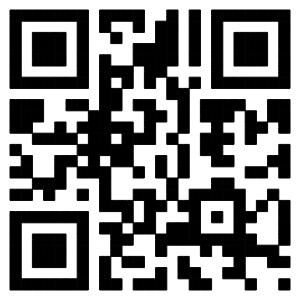
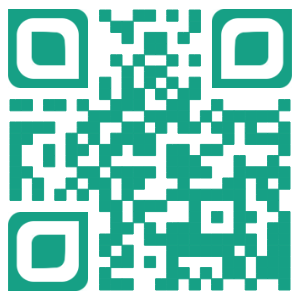
Update sae

diff --git a/app/assets/stylesheets/style.css b/app/assets/stylesheets/style.css
@@ -29,6 +29,17 @@
 .purple {
   color: #7461aa;
 }
+.main-color{
+  color: #16a085;
+}
+.main-bg-color{
+  background-color: #16a085;
+}
+.qrcode-img{
+  -webkit-border-radius: 4px !important;
+  -moz-border-radius: 4px !important;
+  border-radius: 4px !important;
+}
 /***************************************************
   APPEARANCE VARIABLES border radius, box shadow, gradient
 ****************************************************//***************************************************
@@ -2323,9 +2334,9 @@ label.checkbox.inline {
   margin: 30px auto 0;
   width: 125px;
   height: 125px;
-  -webkit-border-radius: 100%;
-  -moz-border-radius: 100%;
-  border-radius: 100%;
+  -webkit-border-radius: 30%;
+  -moz-border-radius: 30%;
+  border-radius: 30%;
 }
 /***************************************************
   DOCUMENTATION

diff --git a/config/initializers/simple_form_bootstrap.rb b/config/initializers/simple_form_bootstrap.rb
@@ -1,45 +1,45 @@
-# Use this setup block to configure all options available in SimpleForm.
-SimpleForm.setup do |config|
-  config.wrappers :bootstrap, tag: 'div', class: 'control-group', error_class: 'error' do |b|
-    b.use :html5
-    b.use :placeholder
-    b.use :label
-    b.wrapper tag: 'div', class: 'controls' do |ba|
-      ba.use :input
-      ba.use :error, wrap_with: { tag: 'span', class: 'help-inline' }
-      ba.use :hint,  wrap_with: { tag: 'p', class: 'help-block' }
-    end
-  end
+# # Use this setup block to configure all options available in SimpleForm.
+# SimpleForm.setup do |config|
+#   config.wrappers :bootstrap, tag: 'div', class: 'control-group', error_class: 'has-error' do |b|
+#     b.use :html5
+#     b.use :placeholder
+#     b.use :label
+#     b.wrapper tag: 'div', class: 'controls' do |ba|
+#       ba.use :input
+#       ba.use :error, wrap_with: { tag: 'span', class: 'help-inline' }
+#       ba.use :hint,  wrap_with: { tag: 'p', class: 'help-block' }
+#     end
+#   end
 
-  config.wrappers :prepend, tag: 'div', class: "control-group", error_class: 'error' do |b|
-    b.use :html5
-    b.use :placeholder
-    b.use :label
-    b.wrapper tag: 'div', class: 'controls' do |input|
-      input.wrapper tag: 'div', class: 'input-prepend' do |prepend|
-        prepend.use :input
-      end
-      input.use :hint,  wrap_with: { tag: 'span', class: 'help-block' }
-      input.use :error, wrap_with: { tag: 'span', class: 'help-inline' }
-    end
-  end
+#   config.wrappers :prepend, tag: 'div', class: "control-group", error_class: 'has-error' do |b|
+#     b.use :html5
+#     b.use :placeholder
+#     b.use :label
+#     b.wrapper tag: 'div', class: 'controls' do |input|
+#       input.wrapper tag: 'div', class: 'input-prepend' do |prepend|
+#         prepend.use :input
+#       end
+#       input.use :hint,  wrap_with: { tag: 'span', class: 'help-block' }
+#       input.use :error, wrap_with: { tag: 'span', class: 'help-inline' }
+#     end
+#   end
 
-  config.wrappers :append, tag: 'div', class: "control-group", error_class: 'error' do |b|
-    b.use :html5
-    b.use :placeholder
-    b.use :label
-    b.wrapper tag: 'div', class: 'controls' do |input|
-      input.wrapper tag: 'div', class: 'input-append' do |append|
-        append.use :input
-      end
-      input.use :hint,  wrap_with: { tag: 'span', class: 'help-block' }
-      input.use :error, wrap_with: { tag: 'span', class: 'help-inline' }
-    end
-  end
+#   config.wrappers :append, tag: 'div', class: "control-group", error_class: 'has-error' do |b|
+#     b.use :html5
+#     b.use :placeholder
+#     b.use :label
+#     b.wrapper tag: 'div', class: 'controls' do |input|
+#       input.wrapper tag: 'div', class: 'input-append' do |append|
+#         append.use :input
+#       end
+#       input.use :hint,  wrap_with: { tag: 'span', class: 'help-block' }
+#       input.use :error, wrap_with: { tag: 'span', class: 'help-inline' }
+#     end
+#   end
 
-  # Wrappers for forms and inputs using the Twitter Bootstrap toolkit.
-  # Check the Bootstrap docs (http://twitter.github.com/bootstrap)
-  # to learn about the different styles for forms and inputs,
-  # buttons and other elements.
-  config.default_wrapper = :bootstrap
-end
+#   # Wrappers for forms and inputs using the Twitter Bootstrap toolkit.
+#   # Check the Bootstrap docs (http://twitter.github.com/bootstrap)
+#   # to learn about the different styles for forms and inputs,
+#   # buttons and other elements.
+#   config.default_wrapper = :bootstrap
+# end

diff --git a/config/initializers/simple_form_bootstrap3.rb b/config/initializers/simple_form_bootstrap3.rb
@@ -1,0 +1,91 @@
+inputs = %w[
+  CollectionSelectInput
+  DateTimeInput
+  FileInput
+  GroupedCollectionSelectInput
+  NumericInput
+  PasswordInput
+  RangeInput
+  StringInput
+  TextInput
+]
+ 
+inputs.each do |input_type|
+  superclass = "SimpleForm::Inputs::#{input_type}".constantize
+ 
+  new_class = Class.new(superclass) do
+    def input_html_classes
+      super.push('form-control')
+    end
+  end
+ 
+  Object.const_set(input_type, new_class)
+end
+ 
+# Use this setup block to configure all options available in SimpleForm.
+SimpleForm.setup do |config|
+  config.boolean_style = :nested
+ 
+  config.wrappers :bootstrap3, tag: 'div', class: 'form-group', error_class: 'has-error',
+      defaults: { input_html: { class: 'default_class' } } do |b|
+    
+    b.use :html5
+    b.use :min_max
+    b.use :maxlength
+    b.use :placeholder
+    
+    b.optional :pattern
+    b.optional :readonly
+    
+    b.use :label_input
+    b.use :hint,  wrap_with: { tag: 'span', class: 'help-block' }
+    b.use :error, wrap_with: { tag: 'span', class: 'help-block has-error' }
+  end
+ 
+  config.wrappers :prepend, tag: 'div', class: 'form-group', error_class: 'has-error' do |b|
+    b.use :html5
+    b.use :placeholder
+    b.wrapper tag: 'div', class: 'controls' do |input|
+      input.wrapper tag: 'div', class: 'input-group' do |prepend|
+    prepend.use :label , class: 'input-group-addon' ###Please note setting class here fro the label does not currently work (let me know if you know a workaround as this is the final hurdle)
+        prepend.use :input
+      end
+      input.use :hint,  wrap_with: { tag: 'span', class: 'help-block' }
+      input.use :error, wrap_with: { tag: 'span', class: 'help-block has-error' }
+    end
+  end
+ 
+  config.wrappers :append, tag: 'div', class: 'form-group', error_class: 'has-error' do |b|
+    b.use :html5
+    b.use :placeholder
+    b.wrapper tag: 'div', class: 'controls' do |input|
+      input.wrapper tag: 'div', class: 'input-group' do |prepend|
+        prepend.use :input
+    prepend.use :label , class: 'input-group-addon' ###Please note setting class here fro the label does not currently work (let me know if you know a workaround as this is the final hurdle)
+      end
+      input.use :hint,  wrap_with: { tag: 'span', class: 'help-block' }
+      input.use :error, wrap_with: { tag: 'span', class: 'help-block has-error' }
+    end
+  end
+ 
+  config.wrappers :checkbox, tag: :div, class: "checkbox", error_class: "has-error" do |b|
+ 
+    # Form extensions
+    b.use :html5
+ 
+    # Form components
+    b.wrapper tag: :label do |ba|
+      ba.use :input
+      ba.use :label_text
+    end
+ 
+    b.use :hint,  wrap_with: { tag: :p, class: "help-block" }
+    b.use :error, wrap_with: { tag: :span, class: "help-block text-danger" }
+  end
+ 
+  # Wrappers for forms and inputs using the Twitter Bootstrap toolkit.
+  # Check the Bootstrap docs (http://getbootstrap.com/)
+  # to learn about the different styles for forms and inputs,
+  # buttons and other elements.
+  config.default_wrapper = :bootstrap3
+end

diff --git a/app/controllers/home_controller.rb b/app/controllers/home_controller.rb
@@ -5,6 +5,29 @@ class HomeController < ApplicationController
   def index
     @book = Book.new #联系我们
   end
+
+  def show
+    if params[:id] =~ /^\d+$/i
+      @page = Page.find_by(id: params[:id])
+    end
+    @page ||= Page.find_by(short_title: params[:id])
+    not_found if params[:id] && @page.nil?
+
+    Keystore.increment_value_for("page:#{@page.id}:view_count")
+    
+    @book = Book.new
+    respond_to do |format|
+      unless @page.extend_url.blank?
+       
+        format.html { redirect_to  @page.extend_url }
+        format.json { render action: 'show', status: :created, location: @page }
+      else
+        format.html { render action: 'show' }
+        format.json { render json: @page.errors, status: :unprocessable_entity }
+      end
+    end
+  end
+
   #案例中心
   def case
     @user = User.first

diff --git a/app/controllers/pages_controller.rb b/app/controllers/pages_controller.rb
@@ -103,7 +103,7 @@ class PagesController < ApplicationController
 
     # Never trust parameters from the scary internet, only allow the white list through.
     def page_params
-      params.require(:page).permit(:user_id, :title, :keywords, :description, :content, :qrcode, :short_title, :properties, :amount, :price, :view_count, :fav_count, :is_processed)
+      params.require(:page).permit(:user_id, :title, :keywords, :description, :content, :qrcode, :short_title, :extend_url, :properties, :amount, :price, :view_count, :fav_count, :is_processed)
     end
 
     def generate_qrcode(page)

diff --git a/app/models/page.rb b/app/models/page.rb
@@ -2,7 +2,7 @@ class Page < ActiveRecord::Base
   belongs_to :user
   acts_as_taggable
   validates :title, :content, presence: true
-  after_create :create_unique_short_title
+  before_create :create_unique_short_title
 
   #extract image url from content
   def image
@@ -31,7 +31,7 @@ class Page < ActiveRecord::Base
   private
     def create_unique_short_title
       begin
-        self.short_title = 'p' + SecureRandom.hex(5)
+        self.short_title = SecureRandom.hex(5)
       end while self.class.exists?(:short_title => short_title)
     end
 

diff --git a/config/routes.rb b/config/routes.rb
@@ -15,6 +15,7 @@ Tanmer::Application.routes.draw do
   match '/users/:user_id/tag/:tag(/page/:page)', to: "pages#tag", via: :get, as: 'tag'
 
   #short url
-  match '/:user_id', to: "pages#index", via: :get
-  match '/:user_id/:id', to: "pages#show", via: :get
+  match '/u/:user_id', to: "pages#index", via: :get
+  #match '/:user_id/:id', to: "pages#show", via: :get
+  match '/p/u:user_id-p:id', to: "home#show", via: :get
 end

diff --git a/app/helpers/application_helper.rb b/app/helpers/application_helper.rb
@@ -27,7 +27,8 @@ module ApplicationHelper
     html.html_safe
   end
 
+  #match '/p/u:user_id-p:id', to: "home#show", via: :get
   def get_url(page)
-    return "#{ENV["HOST_NAME"]}/#{page.user.id}/#{page.short_title}"
+    return "#{ENV["HOST_NAME"]}/p/u#{page.user.id}-p#{page.short_title}"
   end
 end

diff --git a/db/migrate/20140318132026_create_pages.rb b/db/migrate/20140318132026_create_pages.rb
@@ -9,6 +9,7 @@ class CreatePages < ActiveRecord::Migration
       t.string :qrcode
       t.string :short_title
       t.string :properties
+      t.string :extend_url
       t.integer :amount
       t.decimal :price
       t.integer :view_count, default: 0
